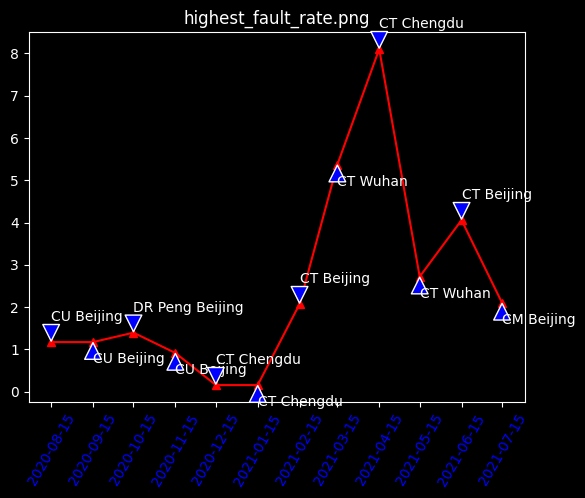
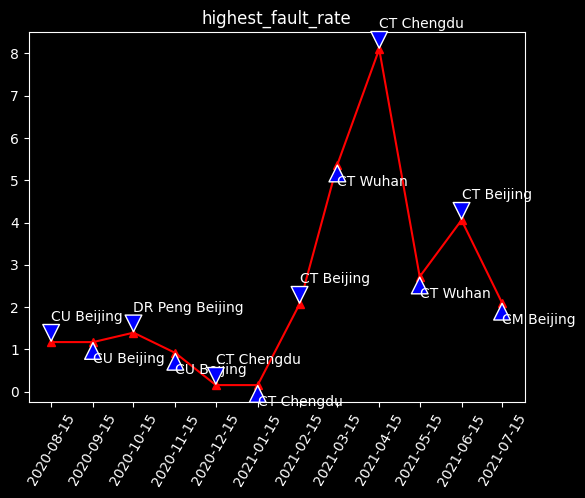
12

diff --git a/rhs_anly.py b/rhs_anly.py
@@ -107,10 +107,8 @@ for date_index in tqdm(range(len(date_list_sample)),desc='fault'):
 
 plt.figure()
 plt.style.use('dark_background')
-# print(rhs_times_index_list)
-# print(max_fault_rate_list)
 plt.plot(rhs_times_index_list,max_fault_rate_list,'r^-')
-plt.xticks(rhs_times_index_list,date_list_sample,color='blue',rotation=60)
+plt.xticks(rhs_times_index_list,date_list_sample,color='white',rotation=60)
 
 for annote_index in range(len(rhs_times_index_list)):
     plt.annotate(max_site_list[annote_index], xy=(rhs_times_index_list[annote_index], max_fault_rate_list[annote_index]),
@@ -119,6 +117,24 @@ for annote_index in range(len(rhs_times_index_list)):
 plt.title('highest_fault_rate')
 # plt.show()
 plt.savefig(result_path + 'highest_fault_rate.png',bbox_inches='tight')
+plt.close()
+
+###画MBR的故障率图
+date_list_sample_mbr = ['2021-3','2021-4','2021-5','2021-6','2021-7','2021-8']
+rhs_times_index_list_mbr = rhs_times_index_list[-6:]
+max_fault_rate_list_mbr = max_fault_rate_list[-6:]
+max_site_list_mbr = max_site_list[-6:]
+plt.figure()
+plt.style.use('dark_background')
+plt.plot(rhs_times_index_list_mbr,max_fault_rate_list_mbr,'r^-')
+plt.xticks(rhs_times_index_list_mbr,date_list_sample_mbr,color='white',rotation=45)
+for annote_index in range(len(rhs_times_index_list_mbr)):
+    plt.annotate(max_site_list_mbr[annote_index], xy=(rhs_times_index_list_mbr[annote_index], max_fault_rate_list_mbr[annote_index]),
+                 xytext=(rhs_times_index_list_mbr[annote_index], max_fault_rate_list_mbr[annote_index] + (-1)**((annote_index+1)%2) * 0.5),
+                 xycoords='data',arrowprops=dict(facecolor='blue', shrink=0.05))
+plt.title('highest_fault_rate')
+# plt.show()
+plt.savefig(result_path + 'highest_fault_rate_mbr.png',bbox_inches='tight')
 plt.close()
 
 #计算单个工单需要的模块量

diff --git a/test2.py b/test2.py
@@ -1,4 +1,4 @@
 a = list(range(6))
 print(a)
-a.reverse()
-print(a)
+
+print(a[-5:])
